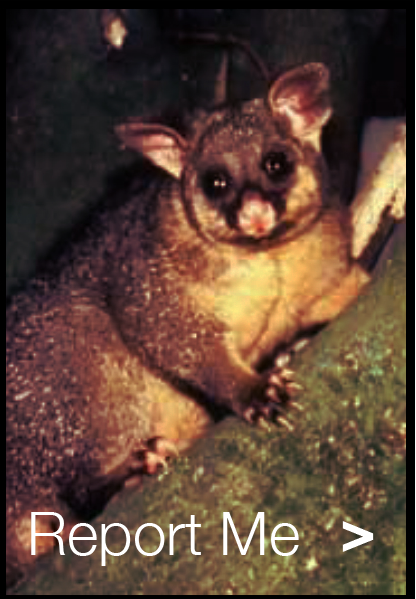
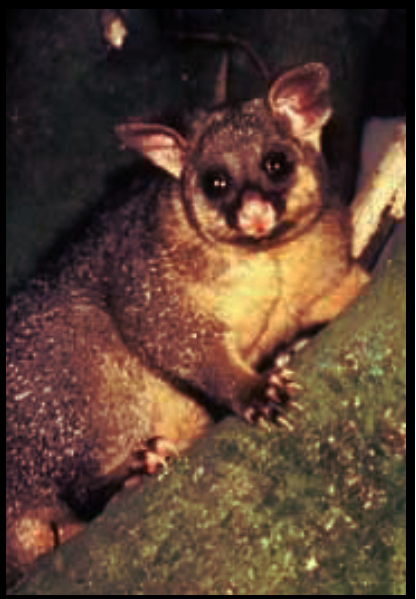
lemon

Changed region(s): [[0.0625, 0.8414, 0.4688, 0.9616], [0.5312, 0.8414, 0.7188, 0.9316], [0.8125, 0.8715, 0.9062, 0.9316]]

diff --git a/www/index.html b/www/index.html
@@ -96,11 +96,14 @@
 
 		</div>
 			<div>
-                <a href="#popupDialog" data-rel="popup"><div class="main-image" id="rabbit" ></div></a>
-                <a href="#popupDialog" data-rel="popup"><div class="main-image" id="possum" ></div></a>
-                <a href="#popupDialog" data-rel="popup"><div class="main-image" id="stoat" ></div></a>
-                <a href="#popupDialog" data-rel="popup"><div class="main-image" id="other" ></div></a>
-                <div><img id="reportButStoat" src="css/images/reportBut.png"></div>        
+                <div class="main-image" id="rabbit" ></div>
+                <div class="main-image" id="possum" ></div>
+                <div class="main-image" id="stoat" ></div>
+                <div class="main-image" id="other" ></div>
+                <a href="#popupDialog" data-rel="popup"><img id="reportButStoat" src="css/images/reportBut.png"> </a>   
+                <a href="#popupDialog" data-rel="popup"><img id="reportButCat" src="css/images/reportBut.png"> </a>
+                <a href="#popupDialog" data-rel="popup"><img id="reportButPos" src="css/images/reportBut.png"> </a>
+                <a href="#popupDialog" data-rel="popup"><img id="reportButRat" src="css/images/reportBut.png"> </a>
             </div>
 
 			<!-- REPORT POPUP -->

diff --git a/www/css/index.css b/www/css/index.css
@@ -71,6 +71,30 @@
 	height: 55px;
 	width: 55px;
 }
+#reportButCat{
+	position: fixed;
+	z-index: 10;
+	top: 87%;
+	left: 85%;
+	height: 55px;
+	width: 55px;
+}
+#reportButPos{
+	position: fixed;
+	z-index: 10;
+	top: 37%;
+	left: 85%;
+	height: 55px;
+	width: 55px;
+}
+#reportButRat{
+	position: fixed;
+	z-index: 10;
+	top: 37%;
+	left: 36%;
+	height: 55px;
+	width: 55px;
+}
 
 .img-carousel {
 	height: 100px;
